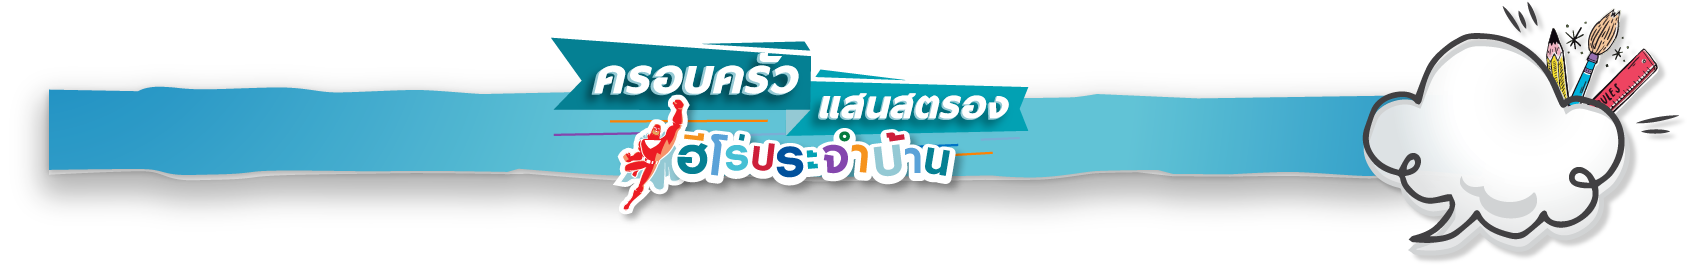
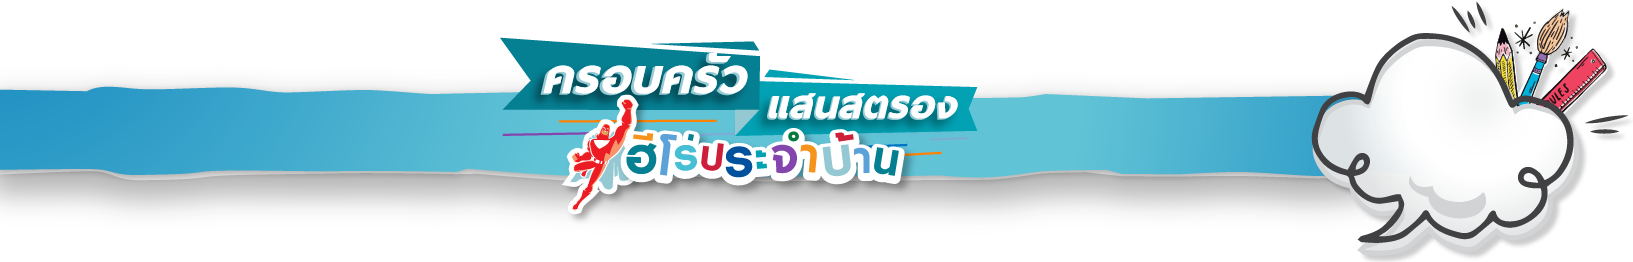
champ

Changed region(s): [[0.0, 0.0305, 0.9994, 1.0], [0.6558, 0.7328, 0.7183, 0.7634]]

diff --git a/css/theme_web.css b/css/theme_web.css
@@ -58,6 +58,17 @@ and open the template in the editor.
     
 }
 
+.navbar-nav
+{
+  padding-left: 2px;
+}
+
+.sendwork
+{
+  opacity: 0;
+}
+
+
 /*text*/ 
 .txt_menu{
 
@@ -66,7 +77,11 @@ and open the template in the editor.
     
 } 
 
- 
+.navbar-left
+{
+  width: 42%;
+  padding-left: 5px;
+}
 
 .navbar-default .navbar-nav > li > a {
   font-family: helvethaica_x_bd;
@@ -100,30 +115,35 @@ s_20{
     
     .menu_top_text{
        font-family: helvethaica_x_bd;
-       margin-top: 2.9em;
+       margin-top: 4.5em;
+       margin-left: -20px;
        text-align: left; 
         font-size: 0.6em;
     } 
     
     .menu_top_right{
-        margin-right: 50px;
+        margin-right: 40px;
     }
     .navbar2 {
-         background-image: url("../images/menu_768.png");
+         background-image: url("../images/navbar.png") ;
         background-size: cover;
+        background-repeat: no-repeat;
         border-radius: 0px;
         height: 120px;
         top: 20px;
+        right: 20px;
         align-content: left;
         display: block;
+        width: 100%;
     }
     
     .conter2 {
          top:100px;
          height: 180px;
     }
-    .navbar-default{
-        
+   .navbar-default {
+      background-color: rgba(248, 248, 248, 0);
+      border-color: rgba(231, 231, 231, 0);
     }
 }
 
@@ -132,25 +152,30 @@ s_20{
     
    .menu_top_text{
       font-family: helvethaica_x_bd;
-      margin-top: 50px;
-      margin-left: 5px;
+      margin-top: 4.7em;
+      margin-left: -70px;
       text-align: left;    
-      font-size: 1em;
+      font-size: 0.9em;
     } 
     
     .menu_top_right{
         
-     margin-right: 80px;
+     margin-right: 53px;
     }
     
     .navbar2 {
-        background-image: url("../images/menu.png");
-        background-size: cover;
+        background-image: url("../images/navbar.png");
+        background-image-size: 80% 150px;
+        background-repeat: no-repeat;
         border-radius: 0px;
         height: 150px;
         top: 20px;
-        align-content: left;
+        width: 100%;
+        padding-left: 5%;
+        padding-right: 5%;
+        
         display: block;
+        
         
     }
     
@@ -181,31 +206,38 @@ s_20{
         left: 90px;
         top: -40px;
     }
+
+    .navbar-default {
+      background-color: rgba(248, 248, 248, 0);
+      border-color: rgba(231, 231, 231, 0);
+    }
 }
 
 @media (min-width: 1200px){
     .menu_top_text{
       font-family: helvethaica_x_bd;
-      margin-top: 90px;
-      margin-left: 20px;
+      margin-top: 100px;
+      margin-left: -90px;
       text-align: left;    
-      font-size: 1.4em;
+      font-size: 1.1em;
     } 
    
     .menu_top_right{
         
-     margin-right: 180px;
+     margin-right: 70px;
     }
     
     .navbar2 {
-        background-image: url("../images/menu.png");
-        background-size: cover;
+        background-image: url("../images/navbar.png");
+        background-image-size: 100% 230px;
+        background-size: 100% 230px;
         border-radius: 0px;
         height: 230px;
         top: 20px;
         align-content: left;
         display: block;
         
+
     }
     
     .conter2 {
@@ -227,7 +259,14 @@ s_20{
     .home_image_right{
         margin-top: 200px;
     }
+
+    .navbar-default {
+      background-color: rgba(248, 248, 248, 0);
+      border-color: rgba(231, 231, 231, 0);
+    }
 }
+
+
 
 /*send page*/
 

diff --git a/js/theme.js b/js/theme.js
@@ -17,7 +17,7 @@
                 link_txt ="page/rule.php";
                break;
             
-             case "ส่งผลงาน":
+             case "ส่งผลงานนะ":
                  link_txt ="page/send_work.php";
                break;
                

diff --git a/page/winner_all.php b/page/winner_all.php
@@ -234,31 +234,31 @@ ul.nav-tabs li {
        <div class="bg_winner">
             <div class="col-xs-12 col-sm-12 col-md-12 col-lg-12 ">
                 <div class="panel with-nav-tabs panel-default">
-                    <div class="no_border panel-heading ">
-                            <ul class="nav nav-tabs">
-                                <li style="right:  -78">
+                    <div class="no_border panel-heading" style="width: 100%; height: 100px;">
+                            <ul class="nav nav-tabs" style="width: 100%; height: 100px;">
+                                <li style="right:  -78; width: 18%;">
                                     <a href="#tab1default" data-toggle="tab" class="menu-link h_b">
-                                         <img src="images/winner/bar_new_01.png" class="img-responsive"> 
+                                         <img src="images/winner/bar_new_01.png" class="img-responsive" style="width: 100%;"> 
                                     </a>
                                  </li>
-                                <li style="right:  -39.5">
+                                <li style="right:  -39.5; width: 18%;">
                                     <a href="#tab2default" data-toggle="tab" class="menu-link h_b">
-                                         <img src="images/winner/bar_new_02.png" class="img-responsive"> 
+                                         <img src="images/winner/bar_new_02.png" class="img-responsive" style="width: 100%;"> 
                                     </a>
                                 </li>
-                                <li style="">
+                                <li style="width: 18%;">
                                     <a href="#tab3default" data-toggle="tab" class="menu-link h_b">
-                                        <img src="images/winner/bar_new_03.png" class="img-responsive"> 
+                                        <img src="images/winner/bar_new_03.png" class="img-responsive" style="width: 100%;"> 
                                     </a>
                                 </li>
-                                 <li style="left: -39;">
+                                 <li style="left: -39; width: 18%;">
                                      <a href="#tab4default" data-toggle="tab" class="menu-link h_b">
-                                       <img src="images/winner/bar_new_04.png" class="img-responsive"> 
+                                       <img src="images/winner/bar_new_04.png" class="img-responsive" style="width: 100%;"> 
                                      </a>
                                  </li>
-                                  <li style="left: -79;">
+                                  <li style="left: -79; width: 18%;">
                                      <a href="#tab5default" data-toggle="tab" class="menu-link h_b">
-                                       <img src="images/winner/bar_new_05.png" class="img-responsive"> 
+                                       <img src="images/winner/bar_new_05.png" class="img-responsive" style="width: 100%;"> 
                                      </a>
                                  </li>
                             </ul>

diff --git a/index.php b/index.php
@@ -11,7 +11,8 @@
     <title>Blackmore Our Strong Family</title>
 
     <!-- Bootstrap core CSS -->
-    <link href="css/bootstrap.css" rel="stylesheet">
+    <link rel="stylesheet" href="https://maxcdn.bootstrapcdn.com/bootstrap/3.3.7/css/bootstrap.min.css" integrity="sha384-BVYiiSIFeK1dGmJRAkycuHAHRg32OmUcww7on3RYdg4Va+PmSTsz/K68vbdEjh4u" crossorigin="anonymous">
+    <!--<link href="css/bootstrap.css" rel="stylesheet">-->
 
     <!-- IE10 viewport hack for Surface/desktop Windows 8 bug -->
     <link href="css/ie10-viewport-bug-workaround.css" rel="stylesheet">
@@ -197,7 +198,7 @@
                   <ul class="nav navbar-nav navbar-right menu_top_right">
                     <li><a href="#" class="txt_menu">โหวตภาพประกวด</a></li>
                     <li><a href="#" class="txt_menu">ประกาศผู้โชคดี</a></li>
-                    <li><a href="#" class="txt_menu">ส่งผลงาน</a></li>
+                    <li><a href="#" class="txt_menu sendwork">ส่งผลงานนะ</a></li>
                   </ul>
                 </div><!--/.nav-collapse -->
               </div>
